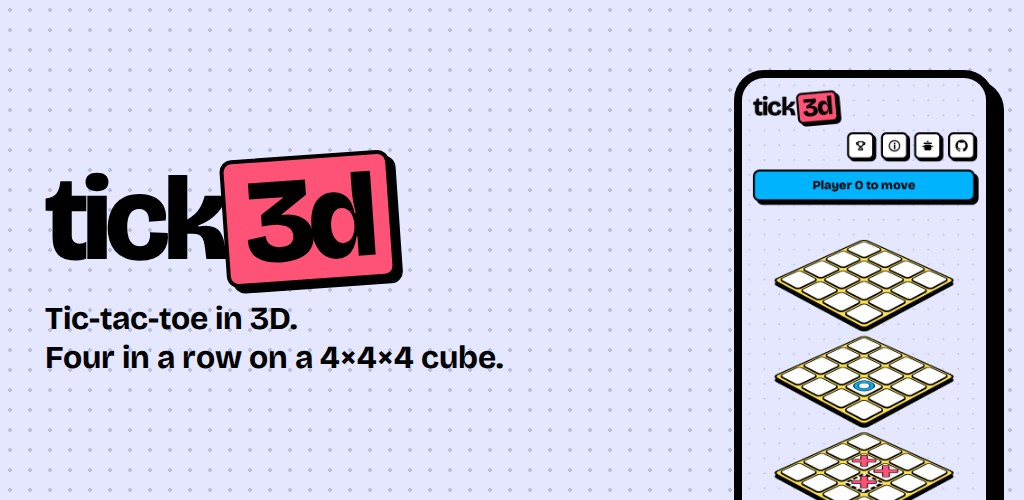
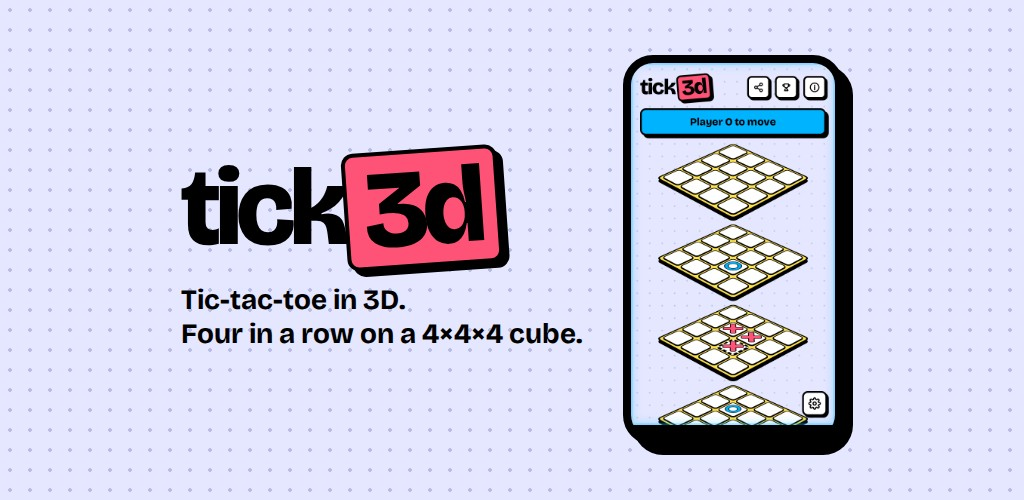
fix(store): keep the feature graphic in the Play safe area, upload store images by itself
- art.html: the wide layout keeps the logo, the tagline and the whole phone inside the centered
  70% x 80%, because the desktop Play store crops and zooms the feature graphic. art.spec.ts
  fails when they leave it.
- store-images.yml: render after the production deploy of main (workflow_run), not on the push
  with a 20-minute wait. A failed or late deploy made the runs of 9a04a08 and 65dffb7 fail.
  The pull request now turns on auto-merge, so a merge uploads the Play images.
- e2e/previews.spec.ts: a pull request with only bot authors has no people on its card. This
  failed e2e on #174 on every render.

Changed region(s): [[0.5938, 0.09, 1.0, 1.0], [0.0312, 0.27, 0.5625, 0.75]]

diff --git a/store-images/art.spec.ts b/store-images/art.spec.ts
@@ -1,6 +1,6 @@
 // The feature graphic and the ads, from art.html and the play-phone tower shot of store.spec.ts.
 // Every size renders to SHOTS_DIR/art/<size>.png.
-import { expect, test } from '@playwright/test';
+import { expect, type Page, test } from '@playwright/test';
 
 const OUT = process.env.SHOTS_DIR ?? '';
 if (OUT === '') throw new Error('Set SHOTS_DIR to the output folder');
@@ -14,6 +14,25 @@ const SIZES = {
   link: [1200, 628],
 } as const;
 
+// The desktop Play store crops and zooms the feature graphic. Google names no exact safe area, only "keep key
+// elements out of the cutoff zones" (https://support.google.com/googleplay/android-developer/answer/9866151,
+// checked 2026-11-08). So the logo, the tagline and the phone stay inside the centered 70% × 80%.
+const SAFE_SHARE = { width: 0.7, height: 0.8 } as const;
+
+async function expectInsideSafeArea(page: Page, width: number, height: number): Promise<void> {
+  const left = (width * (1 - SAFE_SHARE.width)) / 2;
+  const top = (height * (1 - SAFE_SHARE.height)) / 2;
+  // The tilted sticker can reach out of its heading, so it gets its own check.
+  for (const selector of ['.mark', '.mark span', 'p', '.phone']) {
+    const box = await page.locator(selector).boundingBox();
+    if (box === null) throw new Error(`${selector} is not on the feature graphic`);
+    expect(box.x, `${selector} left`).toBeGreaterThanOrEqual(left);
+    expect(box.y, `${selector} top`).toBeGreaterThanOrEqual(top);
+    expect(box.x + box.width, `${selector} right`).toBeLessThanOrEqual(width - left);
+    expect(box.y + box.height, `${selector} bottom`).toBeLessThanOrEqual(height - top);
+  }
+}
+
 for (const [size, [width, height]] of Object.entries(SIZES)) {
   test(size, async ({ browser }) => {
     const context = await browser.newContext({ viewport: { width, height }, deviceScaleFactor: 1 });
@@ -25,6 +44,7 @@ for (const [size, [width, height]] of Object.entries(SIZES)) {
     const tower = page.locator('#tower');
     await expect(tower).toHaveJSProperty('complete', true);
     expect(await tower.evaluate((element: HTMLImageElement) => element.naturalWidth)).toBeGreaterThan(0);
+    if (size === 'feature') await expectInsideSafeArea(page, width, height);
     await page.screenshot({ path: `${OUT}/art/${size}.png` });
     await context.close();
   });

diff --git a/store-images/art.html b/store-images/art.html
@@ -6,7 +6,7 @@
     <!--
       The feature graphic and the ads: the "sticker" style that the maintainers picked on pull request 149.
       art.spec.ts opens this page at the output size, with ?tower=<png>. A wide page puts the text left of
-      the phone, a tall or square page puts it above. All lengths use vmin, so one layout fits every size.
+      the phone, a tall or square page puts it above. Most lengths use vmin, so one layout fits every size.
     -->
     <style>
       @font-face { font-family: Brand; src: url(../src/fonts/bricolage-grotesque-latin.woff2); font-weight: 200 800; }
@@ -31,13 +31,21 @@
       }
       .phone img { display: block; width: 100%; }
 
-      /* Wide: the text on the left, the phone on the right, cut by the bottom edge. */
+      /*
+        Wide: the text on the left, the whole phone on the right. The desktop Play store crops and zooms the
+        feature graphic, and Google gives no exact safe area. So the padding keeps all content inside the
+        centered 70% × 80% (art.spec.ts checks it), and the edges show only the background.
+      */
       @media (min-aspect-ratio: 4 / 3) {
-        body { grid-template-rows: none; grid-template-columns: 1fr auto; align-items: center; padding: 0 0 0 9vmin; }
-        .phones { margin: 14vmin 6vmin 0 0; align-self: start; }
-        .phone { width: 52vmin; }
-        .mark { font-size: 24vmin; }
-        p { font-size: 6.4vmin; }
+        body {
+          grid-template-rows: none; grid-template-columns: auto auto; justify-content: center; align-items: center;
+          column-gap: 8vmin; padding: 10vh 15vw;
+        }
+        .phones { margin: 0; }
+        /* The height leaves room for the shadow below the phone. */
+        .phone { width: auto; height: calc(80vh - 2vmin); }
+        .mark { font-size: 22vmin; }
+        p { font-size: 5.6vmin; }
       }
 
       /* Tall (story): larger text, and the phone fills the extra height. */

diff --git a/e2e/previews.spec.ts b/e2e/previews.spec.ts
@@ -50,8 +50,12 @@ test('the kitshn button lists the open previews and marks this one', async ({ op
       const foot = here.locator(':scope > .preview-foot');
       await expect(foot.getByRole('link', { name: 'Pull request' })).toHaveAttribute('href', new RegExp(`^https://github\\.com/.+/pull/${number}$`));
       await expect(foot.getByRole('link', { name: 'Open preview' })).toHaveAttribute('href', new URL(baseURL).origin);
-      // At least the author of the pull request, with a link to the profile.
-      await expect(here.locator(':scope > .preview-people a').first()).toHaveAttribute('href', /^https:\/\/github\.com\/[\w-]+$/);
+      // Each person links to the profile. A pull request with only bot authors (the store-images pull request)
+      // has no people, because the server leaves "[bot]" logins out (rust/server/src/previews.rs, person_of).
+      // Limit: so this test does not catch a list that loses the human author. The server unit tests cover that.
+      for (const person of await here.locator(':scope > .preview-people a').all()) {
+        await expect(person).toHaveAttribute('href', /^https:\/\/github\.com\/[\w-]+$/);
+      }
     }
   }
 

diff --git a/README.md b/README.md
@@ -307,7 +307,7 @@ The drafts land in `video/out/draft/` (or `video/out/variants/<name>/draft/` wit
 
 ## Store images
 
-The `store-images` workflow makes every store image and the ads from code, and opens a pull request with them. It runs by hand, and on a push to `main` that changes the page (`src/`, the HTML files or `store-images/`). Playwright renders each scene of [store.spec.ts](store-images/store.spec.ts) once per target of [targets.json](store-images/targets.json). [convert.py](store-images/convert.py) then writes the files below, and fails the run on a missing image or a size that the store does not accept. `store.spec.ts` fixes the clock, the player names and the random numbers of the page, so two renders of one commit match. As a margin, `convert.py` keeps the committed file of each image where at most 1.5% of the pixels changed (`NOISE_SHARE`). With no real change left, the workflow opens no pull request. `tick3d-agents[bot]` opens the pull request, so its checks run.
+The `store-images` workflow makes every store image and the ads from code, and opens a pull request with them. It runs by hand, and after each production deploy of a commit on `main` that changes the page (`src/`, the HTML files or `store-images/`). Playwright renders each scene of [store.spec.ts](store-images/store.spec.ts) once per target of [targets.json](store-images/targets.json). [convert.py](store-images/convert.py) then writes the files below, and fails the run on a missing image or a size that the store does not accept. `store.spec.ts` fixes the clock, the player names and the random numbers of the page, so two renders of one commit match. As a margin, `convert.py` keeps the committed file of each image where at most 1.5% of the pixels changed (`NOISE_SHARE`). With no real change left, the workflow opens no pull request. `tick3d-agents[bot]` opens the pull request and turns on auto-merge. So the pull request merges when the required check `check` passes, and the merge uploads the Play images (`play-listing.yml`). The safety checks are `check` and the size checks of `convert.py`, so no maintainer waits.
 
 | Files | What | Who uploads them |
 | --- | --- | --- |
@@ -329,7 +329,7 @@ uv run store-images/convert.py /tmp/shots
 - To add a scene, add a test to `store.spec.ts` that calls `shot(page, '<n>-<name>')`, and add the name and its caption to [scenes.json](store-images/scenes.json). The order of `scenes.json` is the order in the stores. Play takes at most 8 screenshots of each type.
 - The phone and iPhone shots get their scene caption above them ([caption.html](store-images/caption.html)). `[word]` in a caption marks the highlighted word. Keep captions short, with no ranking or price words ("Best", "#1", "New") and no call to action ("Download now"): Google Play does not allow them.
 - To add a target, add a line to `targets.json`: `size` is the output size in pixels, `scale` is the device pixel ratio, `caption` adds the scene captions, and `out` is the folder. `size` / `scale` must be whole CSS pixels. Keep `caption` false for Play tablet targets: Play asks for no added text on large-screen shots. Set `platform` to `ios` for an App Store target: the page then hides what the App Store does not allow, as in the iOS app. Add a new Apple size to `APPLE_SIZES` in `convert.py` only after you check it on the [App Store Connect screenshot specifications](https://developer.apple.com/help/app-store-connect/reference/screenshot-specifications).
-- The feature graphic and the ads come from [art.html](store-images/art.html). `art.spec.ts` renders it at the feature graphic size and at each ad size. The maintainers picked this style from three on [pull request 149](https://github.com/Yarden-zamir/tick3d/pull/149); git history keeps the other two.
+- The feature graphic and the ads come from [art.html](store-images/art.html). `art.spec.ts` renders it at the feature graphic size and at each ad size. The desktop Play store crops and zooms the feature graphic, so `art.spec.ts` fails when the logo, the tagline or the phone leave the centered 70% × 80%. The maintainers picked this style from three on [pull request 149](https://github.com/Yarden-zamir/tick3d/pull/149); git history keeps the other two.
 - No Chromebook screenshots: the Play API, and so fastlane supply, has no Chromebook image type. Add a target when it gets one.
 
 ## Deploy
